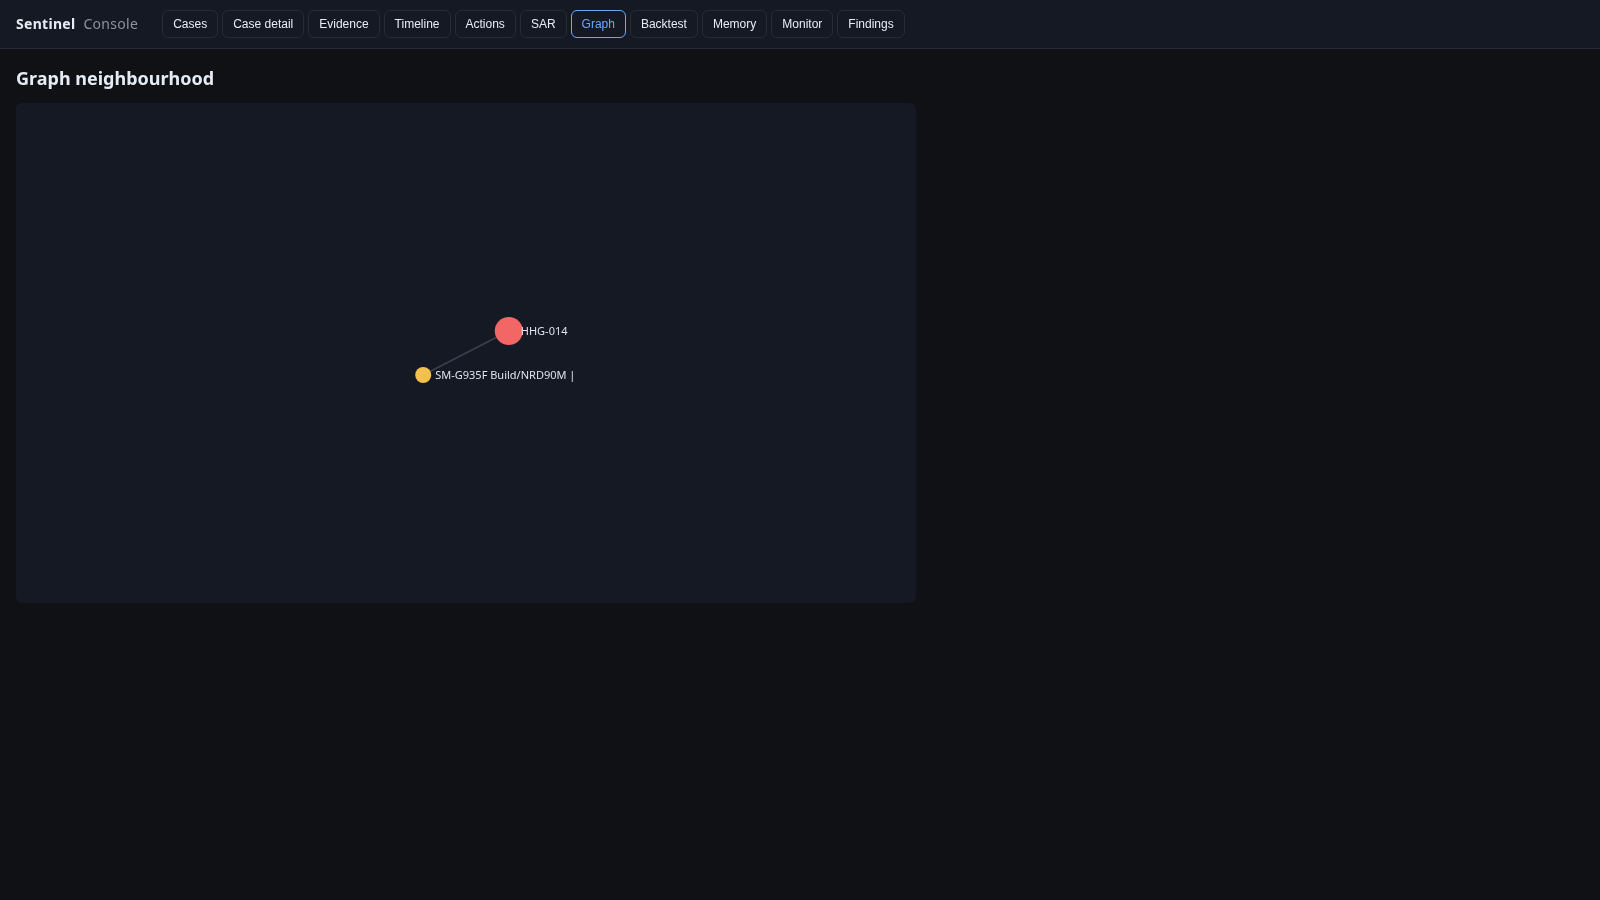
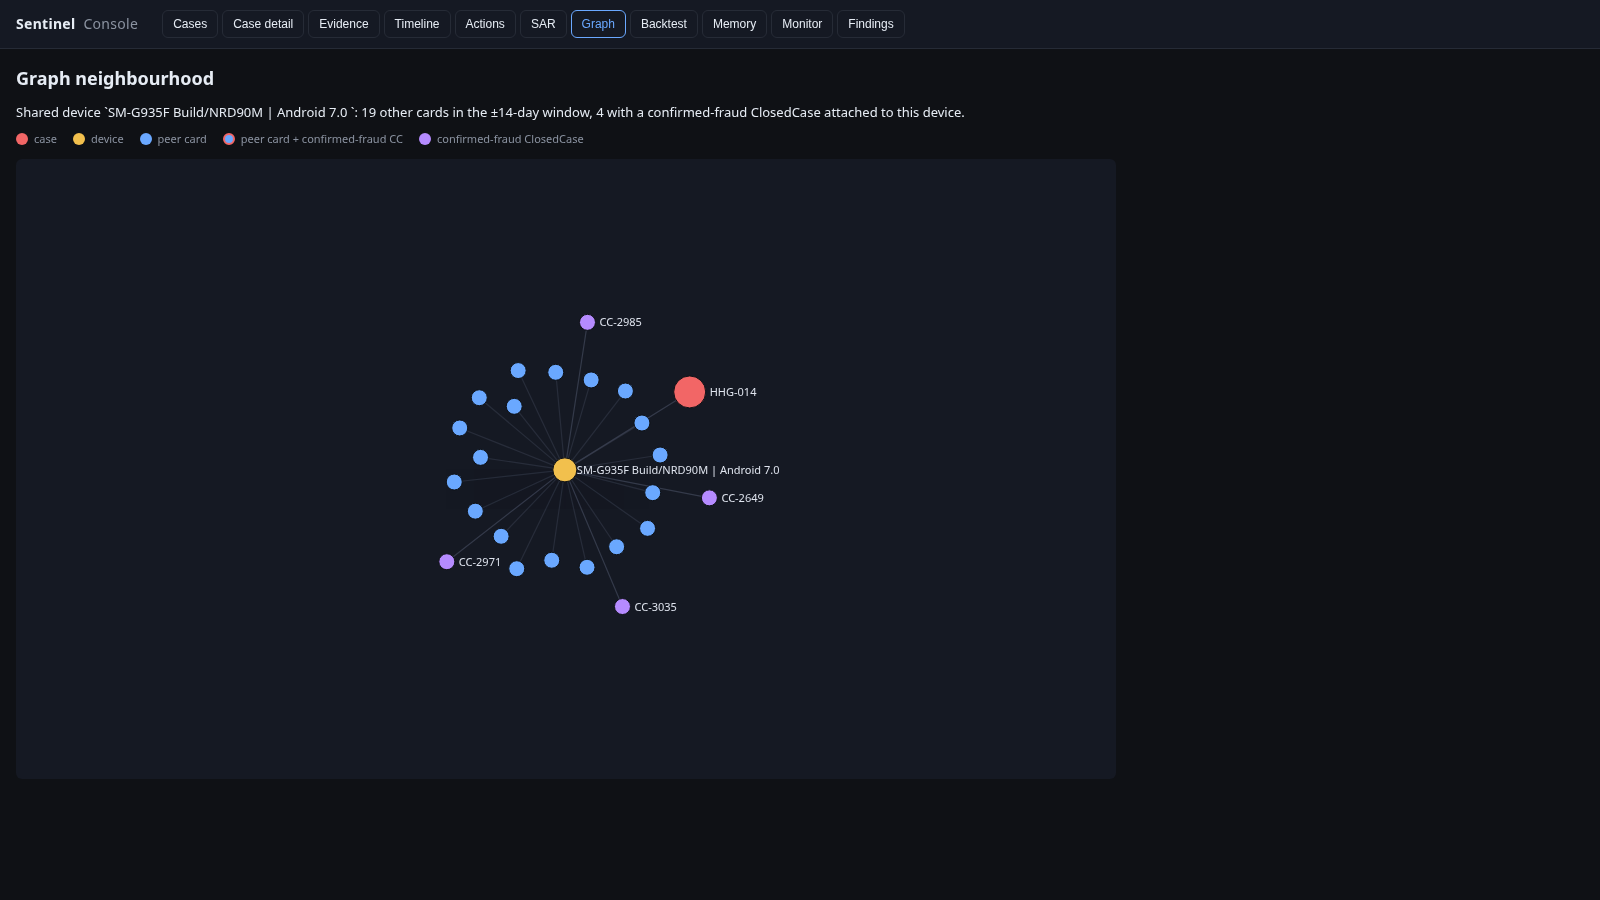
feat(ui): live TigerGraph neighbourhood on Graph tab + legend + caption
Rewrote /api/cases/{id}/graph so that clicking Graph fires a live
device_neighbors query against TigerGraph:

  1. Look up the flagged txn's device_profile from txn_features.
  2. POST /restpp/query/FraudGraph/device_neighbors with a 14-day
     window and degree_cap=5000 (the graph view is analyst context,
     not a decision signal — cap only prunes true hub browsers).
  3. Case node (red), device node (yellow), up to 40 peer cards
     (blue, USED edge from device), up to 8 confirmed-fraud
     ClosedCases on the device (purple, CC_ON_DEVICE edge).
  4. Fraud-CC ↔ card overlap: the ClosedCase CSV gives us the fraud
     cards' display IDs, resolved to tuple form via
     card_tuple_id(). Any peer card whose tuple matches gets a red
     stroke (has_fraud_cc: true).
  5. Caption above the SVG: 'Shared device X: N other cards in the
     ±14-day window, K with a confirmed-fraud ClosedCase attached to
     this device.'
  6. Legend (colour + shape mapping) below the caption.

Graceful degradation: cases with no device_profile on the flagged
txn (in-person / offline alerts, e.g. HHG-001) show only the case
node with the caption 'no device_profile on the flagged txn
(offline / non-online alert)' rather than crashing.

Verified via headless screenshots at 1600×900:
  * docs/img/hhg014_graph.png — 19 blue peer cards + 4 purple CCs
    on SM-G935F, caption 'Shared device `SM-G935F Build/NRD90M |
    Android 7.0 `: 19 other cards ..., 4 with a confirmed-fraud
[…]

diff --git a/ui/frontend/app.js b/ui/frontend/app.js
@@ -134,26 +134,61 @@ function renderSar() {
     <pre>${s.narrative||""}</pre>`;
 }
 
-// ---- Graph (d3 force layout) -----------------------------------------
+// ---- Graph (d3 force layout, live TG-enriched) ------------------------
 async function renderGraph(state) {
   const container = document.getElementById("graph-container");
   container.innerHTML = "";
   const g = await (await fetch(`${API}/cases/${state.case_id}/graph`)).json();
   if (!g.nodes) { container.textContent = "no graph"; return; }
-  const W = 900, H = 500;
+
+  const COLORS = {
+    case:        "#f26666",   // red
+    device:      "#f2c04d",   // yellow
+    card:        "#6aa8ff",   // blue
+    closed_case: "#b58bff",   // purple
+  };
+
+  // Legend + caption above the SVG.
+  const header = document.createElement("div");
+  header.className = "graph-header";
+  header.innerHTML = `
+    <div class="graph-caption">${g.caption || ""}</div>
+    <div class="graph-legend">
+      <span><i style="background:${COLORS.case}"></i> case</span>
+      <span><i style="background:${COLORS.device}"></i> device</span>
+      <span><i style="background:${COLORS.card}"></i> peer card</span>
+      <span><i style="background:${COLORS.card};border:2px solid ${COLORS.case}"></i> peer card + confirmed-fraud CC</span>
+      <span><i style="background:${COLORS.closed_case}"></i> confirmed-fraud ClosedCase</span>
+    </div>`;
+  container.appendChild(header);
+
+  const W = 1100, H = 620;
   const svg = d3.select(container).append("svg").attr("width", W).attr("height", H);
   const sim = d3.forceSimulation(g.nodes)
-    .force("link", d3.forceLink(g.edges).id(d=>d.id).distance(90))
-    .force("charge", d3.forceManyBody().strength(-300))
+    .force("link", d3.forceLink(g.edges).id(d=>d.id).distance(d => d.label === "USED" ? 70 : 110))
+    .force("charge", d3.forceManyBody().strength(-260))
+    .force("collide", d3.forceCollide().radius(18))
     .force("center", d3.forceCenter(W/2, H/2));
   const edge = svg.append("g").selectAll("line").data(g.edges).enter().append("line")
-    .attr("stroke","#3a4051").attr("stroke-width",1.5);
+    .attr("stroke","#3a4051").attr("stroke-width", 1.2)
+    .attr("opacity", d => d.label === "USED" ? 0.5 : 0.85);
   const node = svg.append("g").selectAll("g").data(g.nodes).enter().append("g");
-  node.append("circle").attr("r", d => d.type==="case" ? 14 : 8)
-     .attr("fill", d => ({case:"#f26666", card:"#6aa8ff", device:"#f2c04d",
-                          closed_case:"#8ba7ff"})[d.type] || "#888");
-  node.append("text").text(d=>d.label).attr("dx",12).attr("dy",4)
-     .style("font-size","11px").style("fill","#dfe4ee");
+  node.append("circle")
+     .attr("r", d => d.type === "case" ? 16 : (d.type === "device" ? 12 : 8))
+     .attr("fill", d => COLORS[d.type] || "#888")
+     .attr("stroke", d => (d.type === "card" && d.has_fraud_cc) ? COLORS.case : "#0e1116")
+     .attr("stroke-width", d => (d.type === "card" && d.has_fraud_cc) ? 3 : 1);
+  // Only label case / device / fraud-outlined cards so the graph reads
+  // cleanly when there are 30+ peers.
+  node.append("text")
+     .text(d => (d.type === "case" || d.type === "device" ||
+                 (d.type === "card" && d.has_fraud_cc) ||
+                 d.type === "closed_case") ? d.label : "")
+     .attr("dx", d => d.type === "case" ? 20 : 12).attr("dy", 4)
+     .style("font-size","11px").style("fill","#dfe4ee")
+     .style("pointer-events","none");
+  // Tooltip on hover for anonymous peer cards.
+  node.append("title").text(d => d.label + (d.has_fraud_cc ? "  ⚠ confirmed-fraud CC on shared device" : ""));
   sim.on("tick", () => {
     edge.attr("x1",d=>d.source.x).attr("y1",d=>d.source.y)
         .attr("x2",d=>d.target.x).attr("y2",d=>d.target.y);

diff --git a/ui/frontend/styles.css b/ui/frontend/styles.css
@@ -64,6 +64,11 @@ tr.clickable:hover { background: rgba(106,168,255,0.08); }
 
 pre { background: var(--panel); padding: 12px; border-radius: 6px; overflow: auto; }
 #sar-body pre { white-space: pre-wrap; word-break: break-word; max-width: 900px; line-height: 1.5; }
+.graph-header { margin: 8px 0 12px; }
+.graph-caption { color: var(--fg, #dfe4ee); font-size: 13px; margin-bottom: 8px; line-height: 1.5; }
+.graph-legend { display: flex; gap: 16px; flex-wrap: wrap; font-size: 11px; color: var(--muted, #8890a0); }
+.graph-legend span { display: inline-flex; align-items: center; gap: 6px; }
+.graph-legend i { display: inline-block; width: 12px; height: 12px; border-radius: 50%; }
 .metrics-box { display: flex; gap: 24px; margin: 16px 0 24px; flex-wrap: wrap; }
 .metric { background: var(--panel); border: 1px solid var(--panel-border,#2a2f3a);
           border-radius: 8px; padding: 16px 20px; min-width: 260px; }

diff --git a/ui/backend/main.py b/ui/backend/main.py
@@ -89,61 +89,165 @@ def get_timeline(case_id: str) -> dict:
 
 @app.get("/api/cases/{case_id}/graph")
 def get_graph(case_id: str) -> dict:
-    """Force-layout neighbourhood: card_window + device_neighbors.
-    Nodes: case, card, device, connected cards. Edges: labelled.
+    """Force-layout neighbourhood built live from TigerGraph.
+
+    Given the flagged txn for ``case_id``, look up its device_profile
+    (via DuckDB's txn_features), then call the installed
+    ``device_neighbors`` GSQL query for the ±14-day window. Emit:
+
+      * one **case** node (red)  — the current case
+      * one **device** node (yellow) — the shared device
+      * up to 40 **card** nodes (blue) — cards that transacted on that
+        device in-window; cards that carry a confirmed-fraud ClosedCase
+        on this device get a red outline (``has_fraud_cc: true``)
+      * up to 8 **closed_case** nodes (purple) — confirmed-fraud
+        ClosedCases attached to the device
+
+    Caption fields: ``device_profile``, ``n_other_cards``, ``n_fraud_ccs``.
     """
     d = get_case(case_id)
-    nodes: list[dict] = []
+    case_verdict = d["case"]["verdict"]
+
+    nodes: list[dict] = [{"id": case_id, "label": case_id, "type": "case",
+                           "verdict": case_verdict}]
     edges: list[dict] = []
+    caption = ""
+    device_profile: str | None = None
 
-    # Central case node
-    nodes.append({"id": case_id, "label": case_id,
-                  "type": "case",
-                  "verdict": d["case"]["verdict"]})
-
-    # Card + devices
-    row_card = f"card:{d.get('case_id')}"
-    for dp in d["case"].get("connected_device_profiles", [])[:5]:
-        did = f"device:{dp[:24]}"
-        nodes.append({"id": did, "label": dp[:24], "type": "device"})
-        edges.append({"source": case_id, "target": did, "label": "ON_DEVICE"})
-    for cid in d["case"].get("connected_card_ids", [])[:8]:
-        nodes.append({"id": cid, "label": cid, "type": "card"})
-        edges.append({"source": case_id, "target": cid, "label": "CONNECTED_CARD"})
-    for cc in d["case"].get("similar_prior_cases", [])[:6]:
-        nodes.append({"id": cc, "label": cc, "type": "closed_case"})
-        edges.append({"source": case_id, "target": cc, "label": "SIMILAR_TO"})
-
-    # Optional live enrichment via TG (best-effort).
     try:
+        from sentinel.data.features import connect
         from sentinel.graph.client import TGClient
-        from sentinel.agent.id_resolver import card_tuple_id
-        card_pk = card_tuple_id(_hhg_card_id(d))
-        if card_pk:
-            as_of = datetime.strptime(d["case_id"].startswith("HHG") and
-                                       _hhg_opened_at(d) or "2016-11-01 00:00:00",
-                                       "%Y-%m-%d %H:%M:%S")
-            tg = TGClient()
-            r = tg.run_query("FraudGraph", "card_window", {
-                "p_card": {"id": card_pk},
-                "p_window_start": (as_of - timedelta(days=14)).strftime("%Y-%m-%d %H:%M:%S"),
-                "p_window_end":   as_of.strftime("%Y-%m-%d %H:%M:%S"),
-            })
-            if not r.get("error"):
-                seen_devs = set()
-                for it in r.get("results", []):
-                    for t in (it.get("Txns") or [])[:15]:
-                        dp = t.get("attributes", {}).get("device_profile", "")
-                        if dp and dp not in seen_devs and dp not in nodes:
-                            seen_devs.add(dp)
-                            did = f"device:{dp[:24]}"
-                            if not any(n["id"] == did for n in nodes):
-                                nodes.append({"id": did, "label": dp[:24], "type": "device"})
-                                edges.append({"source": case_id, "target": did, "label": "SEEN_ON"})
-    except Exception:
-        pass
+        from sentinel.config import TG_GRAPHNAME
+        import csv as _csv
 
-    return {"case_id": case_id, "nodes": nodes, "edges": edges}
+        # 1. Flagged txn → device_profile (via txn_features).
+        with open(REPO_ROOT / "data" / "raw" / "case_pack.csv") as _f:
+            rec = next((r for r in _csv.DictReader(_f) if r["case_id"] == case_id), None)
+        opened_at = rec["opened_at"] if rec else "2016-11-01 00:00:00"
+        flagged_txn = int(rec["flagged_txn_id"]) if rec else None
+        if flagged_txn is not None:
+            con = connect()
+            row = con.execute(
+                "SELECT device_profile FROM txn_features WHERE TransactionID = ?",
+                [flagged_txn],
+            ).fetchone()
+            device_profile = row[0] if row and row[0] else None
+
+        if not device_profile:
+            return {"case_id": case_id, "nodes": nodes, "edges": edges,
+                    "caption": "no device_profile on the flagged txn "
+                               "(offline / non-online alert)"}
+
+        # 2. Live device_neighbors query.
+        end = datetime.strptime(opened_at, "%Y-%m-%d %H:%M:%S")
+        start = end - timedelta(days=14)
+        cli = TGClient()
+        try:
+            # Bigger cap than the policy path uses: the graph view is analyst
+            # context, not a decision signal. We want to show real device-family
+            # neighbourhoods (SM-G935F etc.) that carry >100 all-time cards.
+            r = cli.restpp_post(
+                f"query/{TG_GRAPHNAME}/device_neighbors",
+                {
+                    "p_device":       {"id": device_profile},
+                    "p_window_start": start.strftime("%Y-%m-%d %H:%M:%S"),
+                    "p_window_end":   end.strftime("%Y-%m-%d %H:%M:%S"),
+                    "p_degree_cap":   5000,
+                },
+            )
+        finally:
+            cli.close()
+
+        # Merge accumulators. Fields can be bare v_id strings (SetAccum
+        # of VERTEX serialised without attributes) or {v_id, attributes}
+        # objects — handle both.
+        merged: dict = {}
+        for row in r.get("results", []):
+            for k, v in row.items():
+                merged[k.lstrip("@")] = v
+
+        def _vid(x):
+            return x if isinstance(x, str) else (x.get("v_id") if isinstance(x, dict) else None)
+        def _attrs(x):
+            return x.get("attributes", {}) if isinstance(x, dict) else {}
+
+        peer_cards   = [c for c in (merged.get("cards_in_window") or []) if _vid(c)]
+        closed_cases = [c for c in (merged.get("closed_cases_on_device") or []) if _vid(c)]
+
+        # 3. Device node + case→device edge.
+        dev_label = (device_profile or "")[:36]
+        dev_nid = f"device:{device_profile[:48]}"
+        nodes.append({"id": dev_nid, "label": dev_label, "type": "device"})
+        edges.append({"source": case_id, "target": dev_nid, "label": "ON_DEVICE"})
+
+        # 4. Fraud peer tuples: look up each ClosedCase's card_tuple_id from
+        #    the CSV so we can outline the right cards red.
+        from sentinel.agent.id_resolver import card_tuple_id as _tup_resolve
+        cc_id_set = {_vid(cc) for cc in closed_cases}
+        fraud_peer_tuples: set[str] = set()
+        fraud_ccs: list[dict] = []       # list of (case_id, card_tuple_id, outcome)
+        cc_csv = REPO_ROOT / "data" / "raw" / "closed_cases_history.csv"
+        if cc_csv.exists() and cc_id_set:
+            with open(cc_csv) as _f:
+                for row in _csv.DictReader(_f):
+                    if row["case_id"] in cc_id_set:
+                        if row.get("outcome") == "confirmed_fraud":
+                            # CSV stores display form (C09998-K1); resolve
+                            # to the pipe-separated tuple that matches the
+                            # cards_in_window vertex ids.
+                            display = row.get("card_id") or ""
+                            tup = _tup_resolve(display) if display else ""
+                            fraud_peer_tuples.add(tup)
+                            fraud_ccs.append({
+                                "case_id":       row["case_id"],
+                                "card_tuple_id": tup,
+                                "card_display":  display,
+                            })
+
+        # 5. Card nodes (skip the seed's own tuple).
+        from sentinel.agent.id_resolver import card_tuple_id as _tup
+        seed_tuple = _tup(rec["card_id"]) if rec else ""
+        card_added = 0
+        for c in peer_cards:
+            v_id = _vid(c)
+            if not v_id or v_id == seed_tuple:
+                continue
+            attrs = _attrs(c)
+            display = attrs.get("card_id_display") or (v_id.split("|")[0] + "-K?")
+            has_fraud = v_id in fraud_peer_tuples
+            nodes.append({
+                "id":           f"card:{v_id[:48]}",
+                "label":        display,
+                "type":         "card",
+                "has_fraud_cc": has_fraud,
+            })
+            edges.append({"source": dev_nid, "target": f"card:{v_id[:48]}",
+                           "label": "USED"})
+            card_added += 1
+            if card_added >= 40:
+                break
+
+        # 6. ClosedCase nodes (purple), edge device → cc.
+        for cc in fraud_ccs[:8]:
+            nodes.append({
+                "id":     f"cc:{cc['case_id']}",
+                "label":  cc["case_id"],
+                "type":   "closed_case",
+            })
+            edges.append({"source": dev_nid, "target": f"cc:{cc['case_id']}",
+                           "label": "CC_ON_DEVICE"})
+
+        n_fraud_ccs = len(fraud_ccs)
+        n_other = card_added
+        caption = (f"Shared device `{dev_label}`: {n_other} other card"
+                   f"{'s' if n_other != 1 else ''} in the ±14-day window, "
+                   f"{n_fraud_ccs} with a confirmed-fraud ClosedCase attached "
+                   f"to this device.")
+    except Exception as e:  # noqa: BLE001
+        caption = f"live TG query failed: {type(e).__name__}: {str(e)[:120]}"
+
+    return {"case_id": case_id, "nodes": nodes, "edges": edges,
+            "caption": caption, "device_profile": device_profile}
 
 
 def _hhg_card_id(answer: dict) -> str | None:
